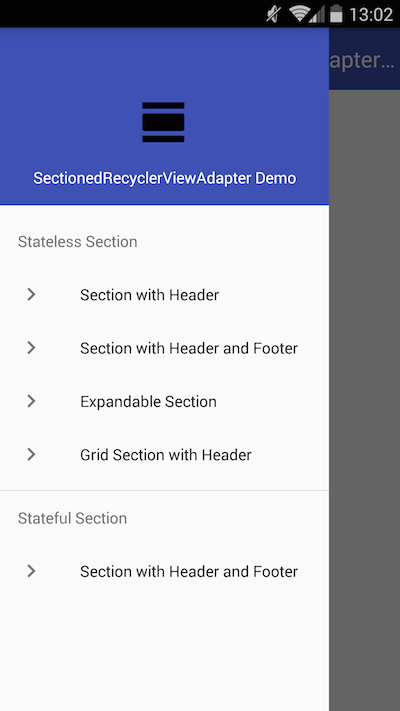
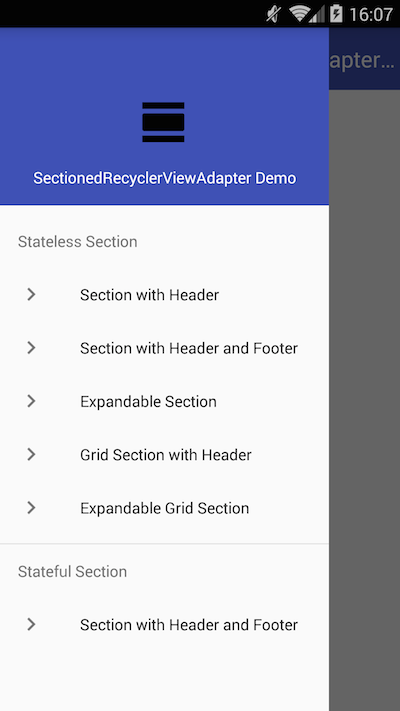
Add expandable grid section example; Display titles on toolbar;

diff --git a/app/src/main/java/io/github/luizgrp/sectionedrecyclerviewadapter/demo/Example6Fragment.java b/app/src/main/java/io/github/luizgrp/sectionedrecyclerviewadapter/demo/Example6Fragment.java
@@ -1,5 +1,6 @@
 package io.github.luizgrp.sectionedrecyclerviewadapter.demo;
 
+import android.graphics.Movie;
 import android.os.Bundle;
 import android.support.annotation.Nullable;
 import android.support.v4.app.Fragment;
@@ -21,19 +22,19 @@ import java.util.List;
 import io.github.luizgrp.sectionedrecyclerviewadapter.SectionedRecyclerViewAdapter;
 import io.github.luizgrp.sectionedrecyclerviewadapter.StatelessSection;
 
-public class Example5Fragment extends Fragment {
+public class Example6Fragment extends Fragment {
 
     private SectionedRecyclerViewAdapter sectionAdapter;
 
     @Nullable
     @Override
     public View onCreateView(LayoutInflater inflater, ViewGroup container, Bundle savedInstanceState) {
-        View view = inflater.inflate(R.layout.fragment_ex5, container, false);
+        View view = inflater.inflate(R.layout.fragment_ex6, container, false);
 
         sectionAdapter = new SectionedRecyclerViewAdapter();
 
-        sectionAdapter.addSection(new MovieSection(getString(R.string.top_rated_movies_topic), getTopRatedMoviesList()));
-        sectionAdapter.addSection(new MovieSection(getString(R.string.most_popular_movies_topic), getMostPopularMoviesList()));
+        sectionAdapter.addSection(new ExpandableMovieSection(getString(R.string.top_rated_movies_topic), getTopRatedMoviesList()));
+        sectionAdapter.addSection(new ExpandableMovieSection(getString(R.string.most_popular_movies_topic), getMostPopularMoviesList()));
 
         RecyclerView recyclerView = (RecyclerView) view.findViewById(R.id.recyclerview);
 
@@ -62,7 +63,7 @@ public class Example5Fragment extends Fragment {
         if (getActivity() instanceof AppCompatActivity) {
             AppCompatActivity activity = ((AppCompatActivity) getActivity());
             if (activity.getSupportActionBar() != null)
-                activity.getSupportActionBar().setTitle(R.string.nav_example5);
+                activity.getSupportActionBar().setTitle(R.string.nav_example6);
         }
     }
 
@@ -94,13 +95,14 @@ public class Example5Fragment extends Fragment {
         return movieList;
     }
 
-    class MovieSection extends StatelessSection {
+    class ExpandableMovieSection extends StatelessSection {
 
         String title;
         List<Movie> list;
+        boolean expanded = true;
 
-        public MovieSection(String title, List<Movie> list) {
-            super(R.layout.section_ex5_header, R.layout.section_ex5_item);
+        public ExpandableMovieSection(String title, List<Movie> list) {
+            super(R.layout.section_ex6_header, R.layout.section_ex6_item);
 
             this.title = title;
             this.list = list;
@@ -108,7 +110,7 @@ public class Example5Fragment extends Fragment {
 
         @Override
         public int getContentItemsTotal() {
-            return list.size();
+            return expanded? list.size() : 0;
         }
 
         @Override
@@ -144,16 +146,18 @@ public class Example5Fragment extends Fragment {
 
         @Override
         public void onBindHeaderViewHolder(RecyclerView.ViewHolder holder) {
-            HeaderViewHolder headerHolder = (HeaderViewHolder) holder;
+            final HeaderViewHolder headerHolder = (HeaderViewHolder) holder;
 
             headerHolder.tvTitle.setText(title);
 
-            headerHolder.btnMore.setOnClickListener(new View.OnClickListener() {
+            headerHolder.rootView.setOnClickListener(new View.OnClickListener() {
                 @Override
                 public void onClick(View v) {
-                    Toast.makeText(getContext(), String.format("Clicked on more button from the header of Section %s",
-                            title),
-                            Toast.LENGTH_SHORT).show();
+                    expanded = !expanded;
+                    headerHolder.imgArrow.setImageResource(
+                            expanded ? R.drawable.ic_keyboard_arrow_up_black_18dp : R.drawable.ic_keyboard_arrow_down_black_18dp
+                    );
+                    sectionAdapter.notifyDataSetChanged();
                 }
             });
         }
@@ -161,14 +165,16 @@ public class Example5Fragment extends Fragment {
 
     class HeaderViewHolder extends RecyclerView.ViewHolder {
 
+        private final View rootView;
         private final TextView tvTitle;
-        private final Button btnMore;
+        private final ImageView imgArrow;
 
         public HeaderViewHolder(View view) {
             super(view);
 
+            rootView = view;
             tvTitle = (TextView) view.findViewById(R.id.tvTitle);
-            btnMore = (Button) view.findViewById(R.id.btnMore);
+            imgArrow = (ImageView) view.findViewById(R.id.imgArrow);
         }
     }
 

diff --git a/app/src/main/java/io/github/luizgrp/sectionedrecyclerviewadapter/demo/HomeActivity.java b/app/src/main/java/io/github/luizgrp/sectionedrecyclerviewadapter/demo/HomeActivity.java
@@ -14,11 +14,13 @@ import android.view.MenuItem;
 public class HomeActivity extends AppCompatActivity
         implements NavigationView.OnNavigationItemSelectedListener {
 
+    Toolbar toolbar;
+
     @Override
     protected void onCreate(Bundle savedInstanceState) {
         super.onCreate(savedInstanceState);
         setContentView(R.layout.activity_home);
-        Toolbar toolbar = (Toolbar) findViewById(R.id.toolbar);
+        toolbar = (Toolbar) findViewById(R.id.toolbar);
         setSupportActionBar(toolbar);
 
         DrawerLayout drawer = (DrawerLayout) findViewById(R.id.drawer_layout);
@@ -56,20 +58,23 @@ public class HomeActivity extends AppCompatActivity
         int id = item.getItemId();
 
         switch (id) {
-            case R.id.nav_item1_sub1:
+            case R.id.nav_example1:
                 replaceFragment(new Example1Fragment());
                 break;
-            case R.id.nav_item1_sub2:
+            case R.id.nav_example2:
                 replaceFragment(new Example2Fragment());
                 break;
-            case R.id.nav_item1_sub3:
+            case R.id.nav_example3:
+                replaceFragment(new Example3Fragment());
+                break;
+            case R.id.nav_example4:
                 replaceFragment(new Example4Fragment());
                 break;
-            case R.id.nav_item1_sub4:
+            case R.id.nav_example5:
                 replaceFragment(new Example5Fragment());
                 break;
-            case R.id.nav_item2_sub1:
-                replaceFragment(new Example3Fragment());
+            case R.id.nav_example6:
+                replaceFragment(new Example6Fragment());
                 break;
         }
 

diff --git a/app/src/main/java/io/github/luizgrp/sectionedrecyclerviewadapter/demo/Example1Fragment.java b/app/src/main/java/io/github/luizgrp/sectionedrecyclerviewadapter/demo/Example1Fragment.java
@@ -3,6 +3,7 @@ package io.github.luizgrp.sectionedrecyclerviewadapter.demo;
 import android.os.Bundle;
 import android.support.annotation.Nullable;
 import android.support.v4.app.Fragment;
+import android.support.v7.app.AppCompatActivity;
 import android.support.v7.widget.LinearLayoutManager;
 import android.support.v7.widget.RecyclerView;
 import android.view.LayoutInflater;
@@ -43,6 +44,17 @@ public class Example1Fragment extends Fragment {
         recyclerView.setAdapter(sectionAdapter);
 
         return view;
+    }
+
+    @Override
+    public void onResume() {
+        super.onResume();
+
+        if (getActivity() instanceof AppCompatActivity) {
+            AppCompatActivity activity = ((AppCompatActivity) getActivity());
+            if (activity.getSupportActionBar() != null)
+                activity.getSupportActionBar().setTitle(R.string.nav_example1);
+        }
     }
 
     private List<String> getContactsWithLetter(char letter) {

diff --git a/app/src/main/java/io/github/luizgrp/sectionedrecyclerviewadapter/demo/Example4Fragment.java b/app/src/main/java/io/github/luizgrp/sectionedrecyclerviewadapter/demo/Example4Fragment.java
@@ -3,6 +3,7 @@ package io.github.luizgrp.sectionedrecyclerviewadapter.demo;
 import android.os.Bundle;
 import android.support.annotation.Nullable;
 import android.support.v4.app.Fragment;
+import android.support.v7.app.AppCompatActivity;
 import android.support.v7.widget.LinearLayoutManager;
 import android.support.v7.widget.RecyclerView;
 import android.view.LayoutInflater;
@@ -43,6 +44,17 @@ public class Example4Fragment extends Fragment {
         recyclerView.setAdapter(sectionAdapter);
 
         return view;
+    }
+
+    @Override
+    public void onResume() {
+        super.onResume();
+
+        if (getActivity() instanceof AppCompatActivity) {
+            AppCompatActivity activity = ((AppCompatActivity) getActivity());
+            if (activity.getSupportActionBar() != null)
+                activity.getSupportActionBar().setTitle(R.string.nav_example4);
+        }
     }
 
     private List<String> getContactsWithLetter(char letter) {

diff --git a/app/src/main/java/io/github/luizgrp/sectionedrecyclerviewadapter/demo/Example2Fragment.java b/app/src/main/java/io/github/luizgrp/sectionedrecyclerviewadapter/demo/Example2Fragment.java
@@ -3,6 +3,7 @@ package io.github.luizgrp.sectionedrecyclerviewadapter.demo;
 import android.os.Bundle;
 import android.support.annotation.Nullable;
 import android.support.v4.app.Fragment;
+import android.support.v7.app.AppCompatActivity;
 import android.support.v7.widget.LinearLayoutManager;
 import android.support.v7.widget.RecyclerView;
 import android.view.LayoutInflater;
@@ -40,6 +41,17 @@ public class Example2Fragment extends Fragment {
         recyclerView.setAdapter(sectionAdapter);
 
         return view;
+    }
+
+    @Override
+    public void onResume() {
+        super.onResume();
+
+        if (getActivity() instanceof AppCompatActivity) {
+            AppCompatActivity activity = ((AppCompatActivity) getActivity());
+            if (activity.getSupportActionBar() != null)
+                activity.getSupportActionBar().setTitle(R.string.nav_example2);
+        }
     }
 
     class NewsSection extends StatelessSection {

diff --git a/app/src/main/java/io/github/luizgrp/sectionedrecyclerviewadapter/demo/Example3Fragment.java b/app/src/main/java/io/github/luizgrp/sectionedrecyclerviewadapter/demo/Example3Fragment.java
@@ -4,6 +4,7 @@ import android.os.Bundle;
 import android.os.Handler;
 import android.support.annotation.Nullable;
 import android.support.v4.app.Fragment;
+import android.support.v7.app.AppCompatActivity;
 import android.support.v7.widget.LinearLayoutManager;
 import android.support.v7.widget.RecyclerView;
 import android.view.LayoutInflater;
@@ -60,6 +61,17 @@ public class Example3Fragment extends Fragment {
         recyclerView.setAdapter(sectionAdapter);
 
         return view;
+    }
+
+    @Override
+    public void onResume() {
+        super.onResume();
+
+        if (getActivity() instanceof AppCompatActivity) {
+            AppCompatActivity activity = ((AppCompatActivity) getActivity());
+            if (activity.getSupportActionBar() != null)
+                activity.getSupportActionBar().setTitle(R.string.nav_example3);
+        }
     }
 
     @Override
